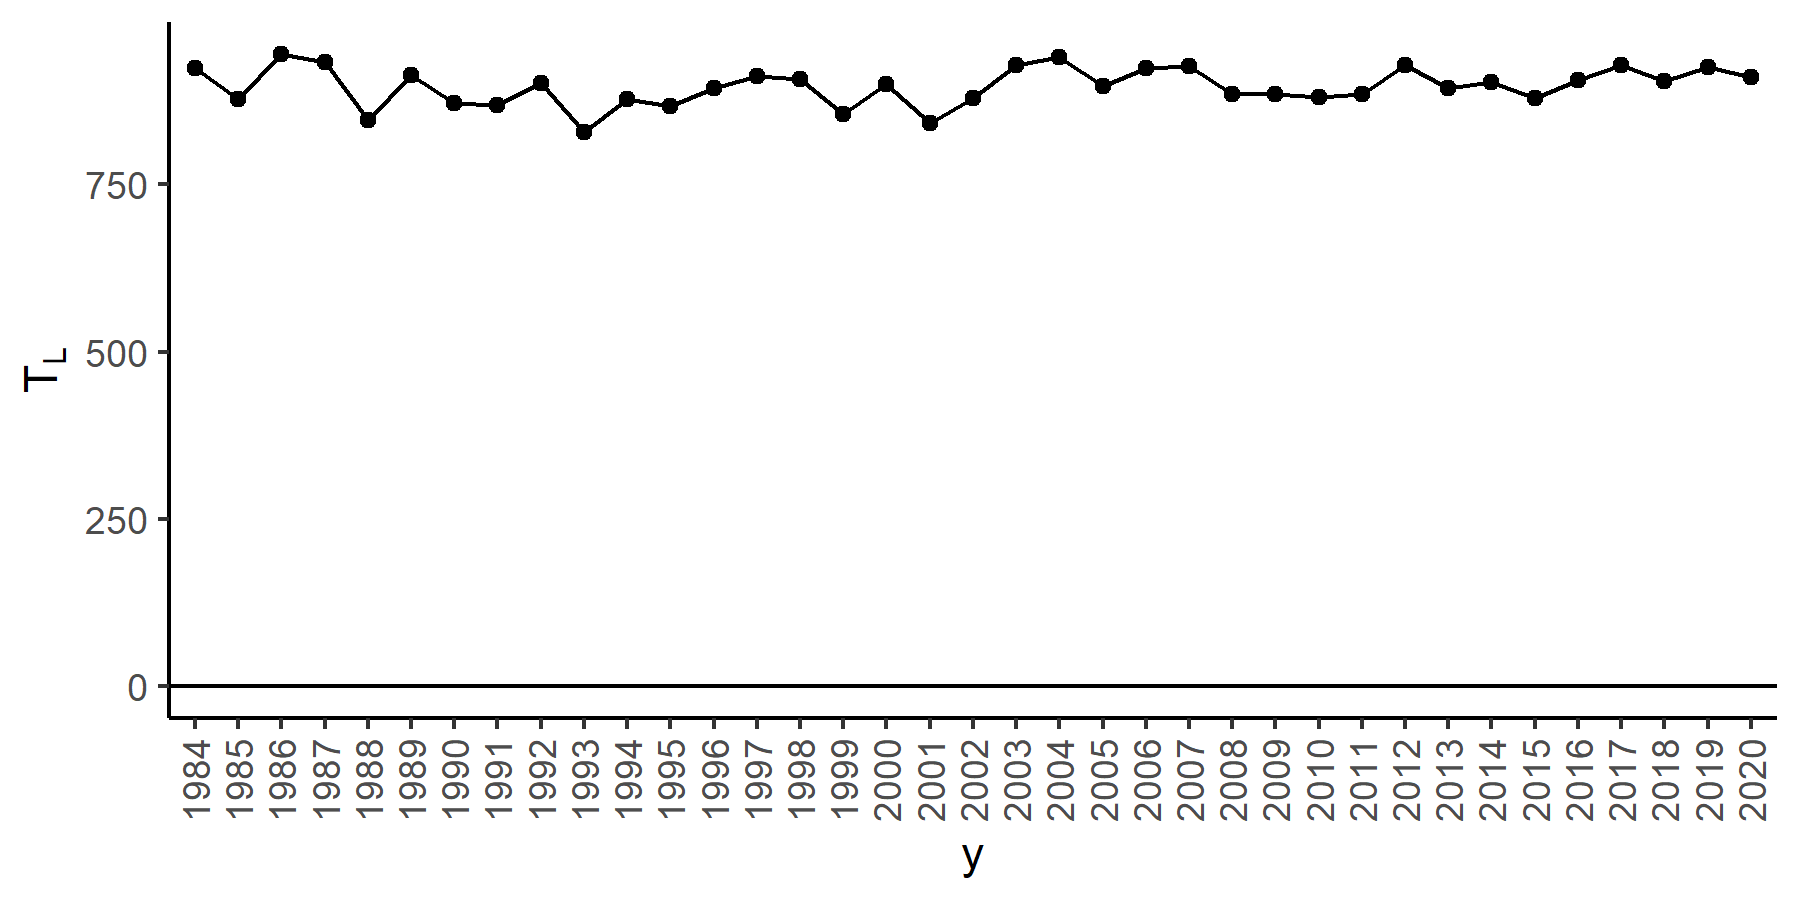
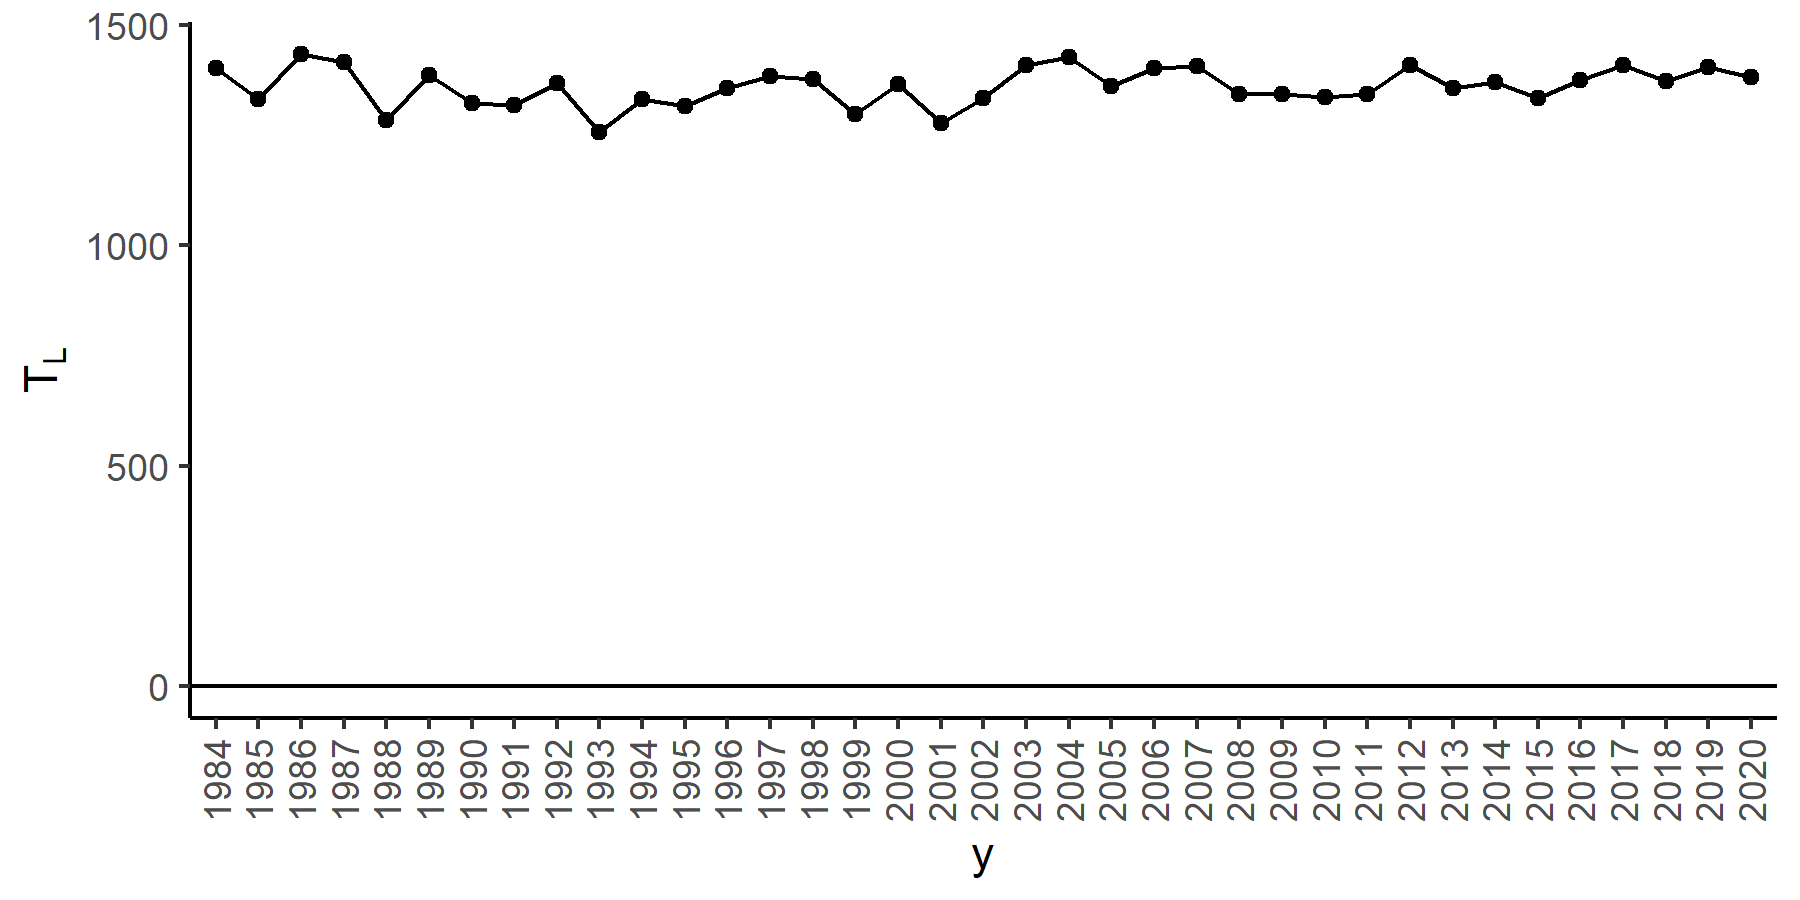
Fix Tau_L_total example

diff --git a/README.md b/README.md
@@ -241,7 +241,7 @@ jacks.
 
 ``` r
 omega_J_all <- get_omega(ex_n_with_jacks)
-ex_omega_J <- omega_J_all$omega["Skeena",,] # only include Skeena
+omega_J <- omega_J_all$omega["Skeena",,] # only include Skeena
 
 ggplot( omega_J_all$df[ omega_J_all$df$i == "Skeena", ], aes(y = omega, x = y, group = i)) +
   geom_point() + 
@@ -259,8 +259,10 @@ ggplot( omega_J_all$df[ omega_J_all$df$i == "Skeena", ], aes(y = omega, x = y, g
 Get freshwater terminal mortalities in the lower Skeena by year
 
 ``` r
-Tau_L_total <- get_Tau_U_total( omega_J = ex_omega_J, rec_catch_U = ex_Tau$rec_catch_U,
-                                   FN_catch_U = ex_Tau$FN_catch_U)
+Tau_L_total <- get_Tau_L_total( omega_J = omega_J, tyee = ex_Tau$tyee, 
+                                rec_catch_L = ex_Tau$rec_catch_L,
+                                rec_release_L = ex_Tau$rec_release_L, 
+                                FN_catch_L = ex_Tau$FN_catch_L)
 Tau_L_total_df <- data.frame(Tau_L_total = Tau_L_total, y = names(Tau_L_total))
 
 ggplot( Tau_L_total_df, aes(y = Tau_L_total, x = y, group = 1)) +
@@ -278,7 +280,7 @@ ggplot( Tau_L_total_df, aes(y = Tau_L_total, x = y, group = 1)) +
 Get freshwater terminal mortalities in the upper Skeena by year
 
 ``` r
-Tau_U_total <- get_Tau_U_total( omega_J = ex_omega_J, rec_catch_U = ex_Tau$rec_catch_U,
+Tau_U_total <- get_Tau_U_total( omega_J = omega_J, rec_catch_U = ex_Tau$rec_catch_U,
                                    FN_catch_U = ex_Tau$FN_catch_U)
 Tau_U_total_df <- data.frame(Tau_U_total, y = names(Tau_U_total))
 ggplot( Tau_U_total_df, aes(y = Tau_U_total, x = y, group = 1)) +
